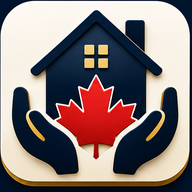
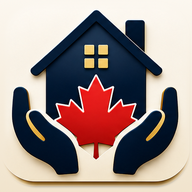
Add files via upload

Changed region(s): [[0.0, 0.0, 1.0, 1.0]]

diff --git a/app.js b/app.js
@@ -103,17 +103,12 @@ const font = {
   body: "-apple-system, BlinkMacSystemFont, 'Segoe UI', sans-serif"
 };
 
-// The maple leaf mark. This is the leaf outline from the National Flag of
-// Canada as published in Wikimedia's public-domain Flag_of_Canada.svg: the
-// 1965 design's Crown copyright has expired and the file is tagged
-// ineligible for copyright. Earlier versions hand-drew an approximation; a
-// shape this famous has no margin for approximation. The app uses the leaf
-// alone, respectfully, and none of the government's identity marks: no flag
-// composition, no wordmark, no government insignia, and the About text states the
-// non-affiliation plainly. tools/leaf.py renders the app icons from this
-// same path, so the home-screen icon and this mark are literally the same
-// shape. Decorative, so hidden from screen readers; the wordmark beside it
-// carries the name.
+// Estate File Canada maple-leaf mark. This is an original, simplified
+// geometric leaf drawn specifically for this app. It deliberately does not
+// reproduce the official 11-point National Flag of Canada leaf. The red
+// colour and leaf motif communicate Canadian context without presenting the
+// app as a Government of Canada service. Decorative only; the adjacent
+// wordmark carries the accessible app name.
 // ---- Text size.
 //
 // Every font size in this app goes through fs(). The scale is a module-level
@@ -168,8 +163,8 @@ function wordCount(value) {
   return text ? text.split(/\s+/).length : 0;
 }
 
-const LEAF_VIEWBOX = "148 115 108 115";
-const LEAF_PATH = "m201.9 116.1-9.1 17.4c-1 1.8-2.9 1.7-4.7.7l-6.6-3.4 4.9 26c1 4.8-2.3 4.8-4 2.7l-11.5-12.9-1.9 6.5c-.2.9-1.2 1.8-2.6 1.6l-14.5-3 3.8 13.9c.8 3.1 1.4 4.3-.8 5.1l-5.2 2.4 25 20.3c1 .8 1.5 2.2 1.1 3.5l-2.2 7.2c8.6-1 16.3-2.5 24.9-3.4.8-.1 2 1.2 2 2.1l-1.1 26.3h4.2l-.7-26.2c0-.9 1.1-2.3 1.9-2.2 8.6.9 16.3 2.4 24.9 3.4l-2.2-7.2c-.4-1.3.1-2.7 1.1-3.5l25-20.3-5.2-2.4c-2.2-.8-1.6-2-.8-5.1l3.8-13.9-14.5 3c-1.4.2-2.4-.7-2.6-1.6l-1.9-6.5-11.5 12.9c-1.7 2.1-5 2.1-4-2.7l4.9-26-6.6 3.4c-1.8 1-3.7 1.1-4.7-.7z";
+const LEAF_VIEWBOX = "0 0 100 112";
+const LEAF_PATH = "M50 3 L59 25 L70 18 L68 39 L88 31 L80 51 L97 55 L79 70 L84 88 L61 82 L57 98 L54 98 L54 110 L46 110 L46 98 L43 98 L39 82 L16 88 L21 70 L3 55 L20 51 L12 31 L32 39 L30 18 L41 25 Z";
 const MapleLeaf = (props) => h("svg", {
   viewBox: LEAF_VIEWBOX,
   width: props.size || 28, height: props.size || 28,
@@ -237,10 +232,61 @@ function benefitCategories(province) {
 // information, not legal advice.
 const RATES_READ = "August 2026";
 
+// RATES_READ used to be concatenated raw into French sentences, so the French
+// build read "vérifiés en August 2026". The month is part of the sentence, so
+// it goes through the translation layer like every other part of it.
+const ratesRead = () => t(RATES_READ);
+
+// A French province name needs its article, and which article depends on the
+// name's gender and initial letter: l'Ontario, le Manitoba, la Saskatchewan,
+// les Territoires du Nord-Ouest, and Terre-Neuve-et-Labrador with none at all.
+// Nothing derives this from the English label, so it is a table. Sentences
+// supply their own preposition ("for" / "pour"), which is why the article is
+// stored bare: "pour" takes no contraction, so the pieces compose cleanly in
+// both languages. English needs no article, so it returns the plain name.
+const PROVINCE_ARTICLE_FR = {
+  ON: "l'Ontario",
+  BC: "la Colombie-Britannique",
+  AB: "l'Alberta",
+  SK: "la Saskatchewan",
+  MB: "le Manitoba",
+  NS: "la Nouvelle-Écosse",
+  NB: "le Nouveau-Brunswick",
+  NL: "Terre-Neuve-et-Labrador",
+  PE: "l'Île-du-Prince-Édouard",
+  QC: "le Québec",
+  YT: "le Yukon",
+  NT: "les Territoires du Nord-Ouest",
+  NU: "le Nunavut"
+};
+function provinceNamed(id) {
+  const p = normaliseProvinceId(id);
+  if (getLang() === "fr") return PROVINCE_ARTICLE_FR[p] || t(provinceDef(p).label);
+  return provinceDef(p).label;
+}
+
+// Fee schedules do not wait for January. New Brunswick's probate tax changed
+// on 12 June 2026, mid-year; the old year-boundary check would have called
+// August 2026 figures current until the following January. Elapsed months is
+// the honest measure. Nine is a deliberate compromise: long enough not to nag
+// about a release that is still accurate, short enough that a mid-year change
+// is flagged inside the same year it happened.
+const RATES_STALE_AFTER_MONTHS = 9;
+const MONTH_NAMES = ["january", "february", "march", "april", "may", "june",
+                     "july", "august", "september", "october", "november", "december"];
+function ratesReadDate() {
+  const m = RATES_READ.match(/([A-Za-zéûôa-z]+)\s+(\d{4})/);
+  if (!m) return null;
+  const idx = MONTH_NAMES.indexOf(m[1].toLowerCase());
+  if (idx < 0) return null;
+  return { month: idx, year: Number(m[2]) };
+}
 function ratesAreStale() {
-  const m = RATES_READ.match(/(\d{4})/);
-  if (!m) return true;
-  return new Date().getFullYear() > Number(m[1]);
+  const read = ratesReadDate();
+  if (!read) return true;
+  const now = new Date();
+  const months = (now.getFullYear() - read.year) * 12 + (now.getMonth() - read.month);
+  return months >= RATES_STALE_AFTER_MONTHS;
 }
 
 function benefitLinkText(url) {
@@ -1531,15 +1577,57 @@ function saveLock(o) {
     return true;
   } catch { return false; }
 }
-function loadState() {
-  try {
-    const raw = localStorage.getItem(STORAGE_KEY);
-    return raw ? JSON.parse(raw) : null;
-  } catch { return null; }
-}
+// A record that cannot be written must never look like one that was.
+//
+// The old version swallowed the failure into console.error. In a WKWebView with
+// no inspector that is invisible: React still holds the state, so every screen
+// looks correct, the executor keeps working, and the whole session is gone at
+// the next launch. For an app whose only promise is "your record is kept
+// safely on this device", a silent write failure is the worst defect it can
+// have. saveState now reports, and the app says so on screen.
+const RECOVERY_KEY = "estate-file-v1-unreadable";
+
+// Roughly how much of the ~5MB localStorage budget the record is using. Two
+// bytes per UTF-16 code unit is the right order of magnitude for a warning.
+function recordBytes(json) { return json.length * 2; }
+const STORAGE_BUDGET = 5 * 1024 * 1024;
+const STORAGE_WARN_AT = 0.8;
+
+// null  = fine
+// "full"    = quota exhausted; nothing was written
+// "blocked" = storage unavailable (private mode, disabled, evicted)
+// "near"    = written, but the record is close to the ceiling
 function saveState(state) {
-  try { localStorage.setItem(STORAGE_KEY, JSON.stringify(state)); }
-  catch (e) { console.error("save failed", e); }
+  let json;
+  try { json = JSON.stringify(state); }
+  catch (e) { return "blocked"; }
+  try {
+    localStorage.setItem(STORAGE_KEY, json);
+  } catch (e) {
+    const name = e && (e.name || e.code);
+    const quota = name === "QuotaExceededError" || name === "NS_ERROR_DOM_QUOTA_REACHED" || name === 22 || name === 1014;
+    return quota ? "full" : "blocked";
+  }
+  return recordBytes(json) > STORAGE_BUDGET * STORAGE_WARN_AT ? "near" : null;
+}
+
+// A record that will not parse is not the same as no record. Returning null
+// used to mean the app opened blank AND the next keystroke overwrote the
+// damaged bytes, so there was nothing left to recover from. Keep the raw text
+// under a separate key first, then tell the person it happened.
+function loadState() {
+  let raw = null;
+  try { raw = localStorage.getItem(STORAGE_KEY); }
+  catch { return { data: null, problem: "blocked" }; }
+  if (!raw) return { data: null, problem: null };
+  try {
+    const parsed = JSON.parse(raw);
+    if (!parsed || typeof parsed !== "object") throw new Error("not an object");
+    return { data: parsed, problem: null };
+  } catch (e) {
+    try { localStorage.setItem(RECOVERY_KEY, raw); } catch {}
+    return { data: null, problem: "unreadable" };
+  }
 }
 
 const DOC_DB = "estate-file-docs";
@@ -1833,6 +1921,11 @@ function EstateFile() {
   const [timelineOpen, setTimelineOpen] = useState(false);
   const [searchQ, setSearchQ] = useState("");
 
+  // Storage trouble is deliberately app-level state, not a toast. A toast that
+  // disappears after 2.6 seconds is the wrong shape for "the thing you are
+  // typing is not being kept".
+  const [storageProblem, setStorageProblem] = useState(null);
+
   const [backupOpen, setBackupOpen] = useState(false);
   const [backupText, setBackupText] = useState("");
   const [restoreText, setRestoreText] = useState("");
@@ -1842,7 +1935,8 @@ function EstateFile() {
   const flash = (msg) => { setToast(msg); setTimeout(() => setToast(""), 2600); };
 
   useEffect(() => {
-    const data = loadState();
+    const { data, problem } = loadState();
+    if (problem) setStorageProblem(problem);
     if (data) {
       if (data.province) setProvince(normaliseProvinceId(data.province));
       if (Array.isArray(data.claims)) setClaims(data.claims);
@@ -1860,7 +1954,10 @@ function EstateFile() {
 
   useEffect(() => {
     if (!loaded) return;
-    saveState({ province, claims, startChecklist, reminders, contacts, redress, evidence, statements, conditions });
+    const problem = saveState({ province, claims, startChecklist, reminders, contacts, redress, evidence, statements, conditions });
+    // A recovered save clears an earlier warning; "unreadable" is about the
+    // previous record and stays until the person dismisses it.
+    setStorageProblem((prev) => (prev === "unreadable" ? prev : problem));
   }, [province, claims, startChecklist, reminders, contacts, redress, evidence, statements, conditions, loaded]);
 
   const claimById = (id) => claims.find((c) => c.id === id) || null;
@@ -3467,7 +3564,15 @@ function EstateFile() {
         t(" Asset ownership, joint interests, beneficiary designations, debts and property outside the jurisdiction can change the legal answer. Use the jurisdiction-specific legal-help route under Help if you are unsure.")),
 
       h("div", { style: { marginTop: 10, fontSize: fs(10.5), color: T.inkSoft, lineHeight: 1.5 } },
-        t("Rates and rules were checked in ") + RATES_READ + t(". Check the authoritative source") + (sources.length > 1 ? t("s") : "") + t(" before relying on the estimate: "),
+        // Two whole sentences rather than a stem plus t("s"). French pluralises
+        // the article as well as the noun ("la source officielle" ->
+        // "les sources officielles"), so a bolted-on "s" produced
+        // "la source officielles". The FR_MISSES check could not catch it
+        // either, because a one-letter string has no letters to detect.
+        t("Rates and rules were checked in ") + ratesRead() +
+        (sources.length > 1
+          ? t(". Check the authoritative sources before relying on the estimate: ")
+          : t(". Check the authoritative source before relying on the estimate: ")),
         sources.map((source, i) => h(React.Fragment, { key: source.url },
           i ? t(" · ") : null,
           h("a", { href: frUrl(source.url).url, target: "_blank", rel: "noopener noreferrer", style: { color: T.blue, fontWeight: 700, textDecoration: "none" } }, t(source.label) + (frUrl(source.url).english ? t(" (page in English)") : ""))
@@ -3532,7 +3637,7 @@ function EstateFile() {
 
     ratesAreStale() ? h("div", {
       style: { background: "#FBEBE8", border: "1px solid " + T.red, borderRadius: 9, padding: "10px 12px", fontSize: fs(11.5), color: T.red, marginBottom: 14, lineHeight: 1.45 }
-    }, t("These amounts were read in ") + RATES_READ + t(". Check the government pages before relying on them.")) : null,
+    }, t("These amounts were read in ") + ratesRead() + t(". Check the government pages before relying on them.")) : null,
 
     benefitCategories(province).map((cat) => {
       const items = benefitsForProvince(province).filter((b) => b.cat === cat.id);
@@ -3853,6 +3958,61 @@ function EstateFile() {
       h("button", { onClick: copyCondExport, style: { padding: "13px", borderRadius: 10, border: "none", background: T.primary, color: "#fff", fontFamily: font.body, fontSize: fs(13), fontWeight: 800, cursor: "pointer" } }, t("Copy")))
   ]);
 
+  // ---- Storage trouble, said out loud.
+  //
+  // This is the one banner in the app that is not dismissible while the
+  // problem is live, because everything the person types while it shows is
+  // being lost. The only useful action is "make a backup now", so that is the
+  // button. The "unreadable" case is about a record that already failed to
+  // load, so that one can be acknowledged and closed.
+  const storageBanner = () => {
+    if (!storageProblem) return null;
+    const copy = {
+      full: {
+        title: t("Your record is not being saved"),
+        body: t("This device has run out of room for the estate record. Anything you add now will be lost when you close the app. Make a backup file straight away, then free up space on the device."),
+        tone: "red"
+      },
+      blocked: {
+        title: t("Your record is not being saved"),
+        body: t("The app cannot write to this device's storage. Anything you add now will be lost when you close the app. Make a backup file straight away."),
+        tone: "red"
+      },
+      near: {
+        title: t("This device is almost out of room"),
+        body: t("The estate record is close to the space this app is allowed. Make a backup file now, and consider removing document photographs you no longer need."),
+        tone: "amber"
+      },
+      unreadable: {
+        title: t("The saved record could not be read"),
+        body: t("The estate record on this device was damaged and could not be opened, so the app has started an empty one. The damaged copy has been kept and has not been overwritten. If you have a backup file, restore it from Settings before adding anything new."),
+        tone: "amber"
+      }
+    }[storageProblem];
+    if (!copy) return null;
+    const accent = copy.tone === "red" ? T.red : T.amber;
+    return h("div", {
+      role: "alert",
+      style: {
+        margin: "12px 16px 0", padding: "13px 14px", borderRadius: 12,
+        background: T.card, border: "2px solid " + accent
+      }
+    },
+      h("div", { style: { fontFamily: font.display, fontWeight: 700, fontSize: fs(14.5), color: accent, marginBottom: 5 } }, copy.title),
+      h("div", { style: { fontSize: fs(12), lineHeight: 1.55, color: T.ink } }, copy.body),
+      h("div", { style: { display: "flex", gap: 8, marginTop: 11, flexWrap: "wrap" } },
+        h("button", {
+          onClick: () => { setBackupOpen(true); setTab("settings"); },
+          style: { flex: "1 1 auto", minHeight: 44, padding: "0 14px", borderRadius: 10, border: "none", background: accent, color: T.onAccent, fontFamily: font.body, fontSize: fs(12.5), fontWeight: 800, cursor: "pointer" }
+        }, t("Make a backup now")),
+        storageProblem === "unreadable" ? h("button", {
+          onClick: () => setStorageProblem(null),
+          style: { flex: "0 0 auto", minHeight: 44, padding: "0 14px", borderRadius: 10, border: "1px solid " + T.line, background: T.btn2, color: T.ink, fontFamily: font.body, fontSize: fs(12.5), fontWeight: 700, cursor: "pointer" }
+        }, t("Dismiss")) : null
+      )
+    );
+  };
+
   const helpSheet = () => sheet(() => setHelpOpen(false), [
     h("div", { key: "t", style: { fontFamily: font.display, fontSize: fs(20), color: T.heading, marginBottom: 3 } }, t("Help")),
     h("div", { key: "b", style: { fontSize: fs(11.5), color: T.inkSoft, marginBottom: 14, lineHeight: 1.45 } },
@@ -4067,7 +4227,11 @@ function EstateFile() {
           t(t("The app's address. Open it in Safari on any phone and add it to the home screen.")))),
       t("Estate File Canada is not affiliated with, endorsed by, or connected to any government department, court, law firm or accountancy practice. It reads no file and submits nothing on your behalf. It is a private place to keep your own record."),
       h("div", { style: { marginTop: 8 } },
-        province === "QC" ? t("The Succession tab uses published Quebec succession rules checked in ") + RATES_READ + t(". Quebec has no estate-value probate tax; the app records the civil-law process and known public registration fees without pretending to price notary or court work.") : t("The Probate tab uses the published ") + t(provinceDef(province).label) + t(" fee rules checked in ") + RATES_READ + t(". It shows arithmetic on a value you enter. It does not decide what the estate is worth, whether a court grant is needed, or how any asset passes. Those are legal questions.")),
+        province === "QC"
+          ? t("The Succession tab uses published Quebec succession rules checked in ") + ratesRead() + t(". Quebec has no estate-value probate tax; the app records the civil-law process and known public registration fees without pretending to price notary or court work.")
+          // provinceNamed() carries the French article. The old build read
+          // "les règles publiées sur les Ontario".
+          : t("The Probate tab uses the published fee rules for ") + provinceNamed(province) + t(", checked in ") + ratesRead() + t(". It shows arithmetic on a value you enter. It does not decide what the estate is worth, whether a court grant is needed, or how any asset passes. Those are legal questions.")),
       h("div", { style: { marginTop: 8 } },
         t("Nothing here is legal, tax or financial advice. Benefit eligibility is decided by the responsible government authority; legal questions about the will, probate or a Quebec succession belong with a qualified legal professional.")),
       h("div", { style: { marginTop: 8 } },
@@ -4586,6 +4750,8 @@ function EstateFile() {
         })
       )
     ),
+
+    storageBanner(),
 
     tab === "start" ? startScreen() : null,
     tab === "claims" ? (openClaim ? claimDetail() : claimsScreen()) : null,

diff --git a/strings.js b/strings.js
@@ -1221,17 +1221,59 @@ const FR = {
   "Open official CRA information": "Ouvrir les renseignements officiels de l’ARC",
   "Open official Canada.ca benefits information": "Ouvrir les renseignements officiels de Canada.ca sur les prestations",
   "Open official CRA clearance information": "Ouvrir les renseignements officiels de l’ARC sur le certificat de décharge",
-  "Open official government information": "Ouvrir les renseignements officiels du gouvernement"
+  "Open official government information": "Ouvrir les renseignements officiels du gouvernement",
+
+  /* V1M — storage failures said out loud. */
+  "Your record is not being saved": "Votre dossier n’est pas enregistré",
+  "This device has run out of room for the estate record. Anything you add now will be lost when you close the app. Make a backup file straight away, then free up space on the device.": "Cet appareil n’a plus d’espace pour le dossier de succession. Tout ce que vous ajoutez maintenant sera perdu à la fermeture de l’application. Créez immédiatement un fichier de sauvegarde, puis libérez de l’espace sur l’appareil.",
+  "The app cannot write to this device's storage. Anything you add now will be lost when you close the app. Make a backup file straight away.": "L’application n’arrive pas à écrire dans le stockage de cet appareil. Tout ce que vous ajoutez maintenant sera perdu à la fermeture de l’application. Créez immédiatement un fichier de sauvegarde.",
+  "This device is almost out of room": "Cet appareil manque presque d’espace",
+  "The estate record is close to the space this app is allowed. Make a backup file now, and consider removing document photographs you no longer need.": "Le dossier de succession approche de l’espace alloué à cette application. Créez un fichier de sauvegarde dès maintenant et envisagez de supprimer les photographies de documents dont vous n’avez plus besoin.",
+  "The saved record could not be read": "Le dossier enregistré n’a pas pu être lu",
+  "The estate record on this device was damaged and could not be opened, so the app has started an empty one. The damaged copy has been kept and has not been overwritten. If you have a backup file, restore it from Settings before adding anything new.": "Le dossier de succession de cet appareil était endommagé et n’a pas pu être ouvert; l’application en a donc commencé un nouveau, vide. La copie endommagée a été conservée et n’a pas été écrasée. Si vous avez un fichier de sauvegarde, restaurez-le à partir des Réglages avant d’ajouter quoi que ce soit.",
+  "Make a backup now": "Créer une sauvegarde maintenant",
+  "Dismiss": "Fermer",
+
+  /* V1M — whole sentences instead of a stem plus a bolted-on "s". */
+  ". Check the authoritative source before relying on the estimate: ": ". Vérifiez la source officielle avant de vous fier à l’estimation : ",
+  ". Check the authoritative sources before relying on the estimate: ": ". Vérifiez les sources officielles avant de vous fier à l’estimation : ",
+
+  /* V1M — the province name carries its own French article via provinceNamed(). */
+  "The Probate tab uses the published fee rules for ": "L’onglet Homologation utilise les règles de frais publiées pour ",
+  ", checked in ": ", vérifiées en ",
+
+  /* V1M — the month RATES_READ names is part of the sentence, so it is
+     translated rather than concatenated raw into French text. */
+  "August 2026": "août 2026",
+
+  /* V1M — jurisdiction abbreviations. These are identical in both languages
+     (Canada Post codes are bilingual), but they are listed explicitly rather
+     than left to fall through, so the coverage test can tell "deliberately the
+     same" apart from "nobody translated it yet". */
+  "ON": "ON",
+  "ONT": "ONT",
+  "AB": "AB",
+  "SK": "SK",
+  "MB": "MB",
+  "QC": "QC",
+  "YT": "YT",
+  "NU": "NU",
+  "211 P.E.I.": "211 Î.-P.-É."
 };
 
 const FR_MISSES = new Set();
 let LANG = "en";
 function setLang(l) { LANG = (l === "fr") ? "fr" : "en"; }
 function getLang() { return LANG; }
+// A miss is any Latin-letter string with no French entry. This used to require
+// three consecutive letters, which quietly exempted short fragments — and that
+// is exactly how t("s"), bolted onto "source" to pluralise it, shipped a French
+// build reading "la source officielles". One letter is enough to be wrong, so
+// one letter is enough to record.
 function t(s) {
   if (LANG !== "fr") return s;
   if (Object.prototype.hasOwnProperty.call(FR, s)) return FR[s];
-  if (typeof s === "string" && /[A-Za-z]{3}/.test(s)) FR_MISSES.add(s);
+  if (typeof s === "string" && /[A-Za-z]/.test(s)) FR_MISSES.add(s);
   return s;
 }
 function frUrl(url) {

diff --git a/index.html b/index.html
@@ -2,7 +2,10 @@
 <html lang="en">
 <head>
 <meta charset="UTF-8" />
-<meta name="viewport" content="width=device-width, initial-scale=1, viewport-fit=cover, maximum-scale=1" />
+<!-- No maximum-scale. Blocking pinch-zoom contradicts everything else this app
+     does for accessibility, and the people using it are frequently older or
+     grieving and reading small print on a phone. -->
+<meta name="viewport" content="width=device-width, initial-scale=1, viewport-fit=cover" />
 <title>Estate File Canada — An Executor's Own Record</title>
 <meta name="description" content="Estate File Canada: a private, offline record for executors settling an estate. Track tasks, dates, documents, contacts, assets, benefits and probate / succession progress on your device." />
 <link rel="manifest" href="manifest.json" />
